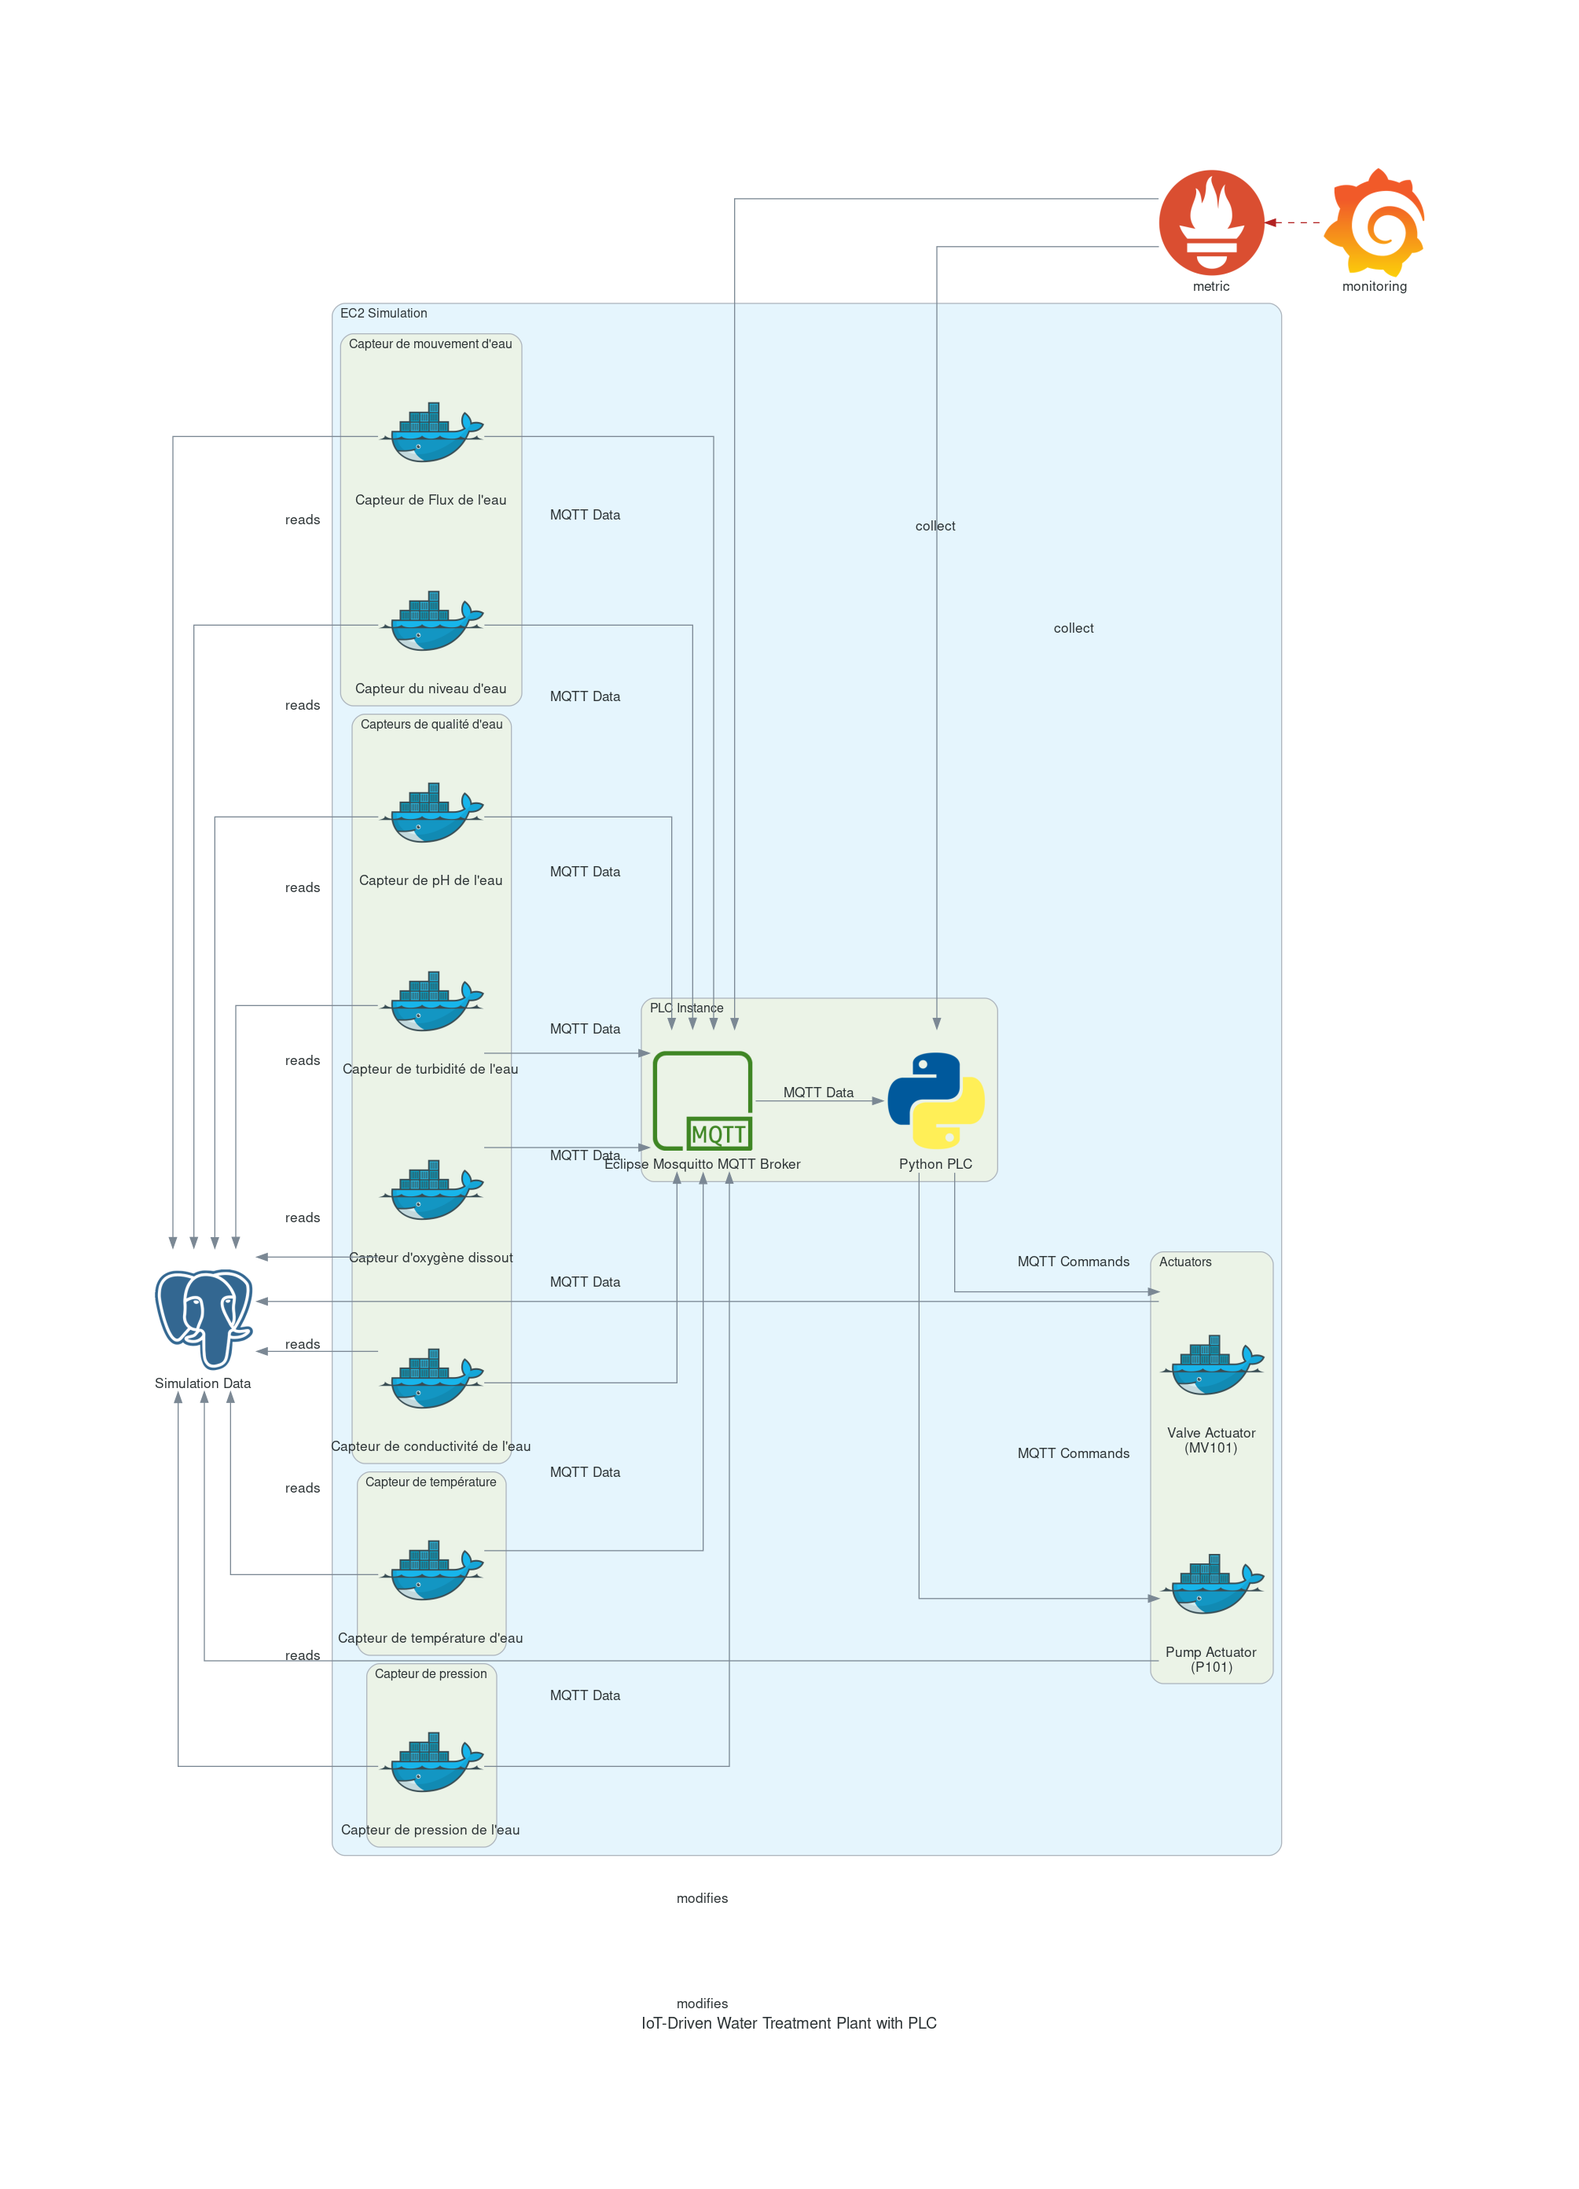
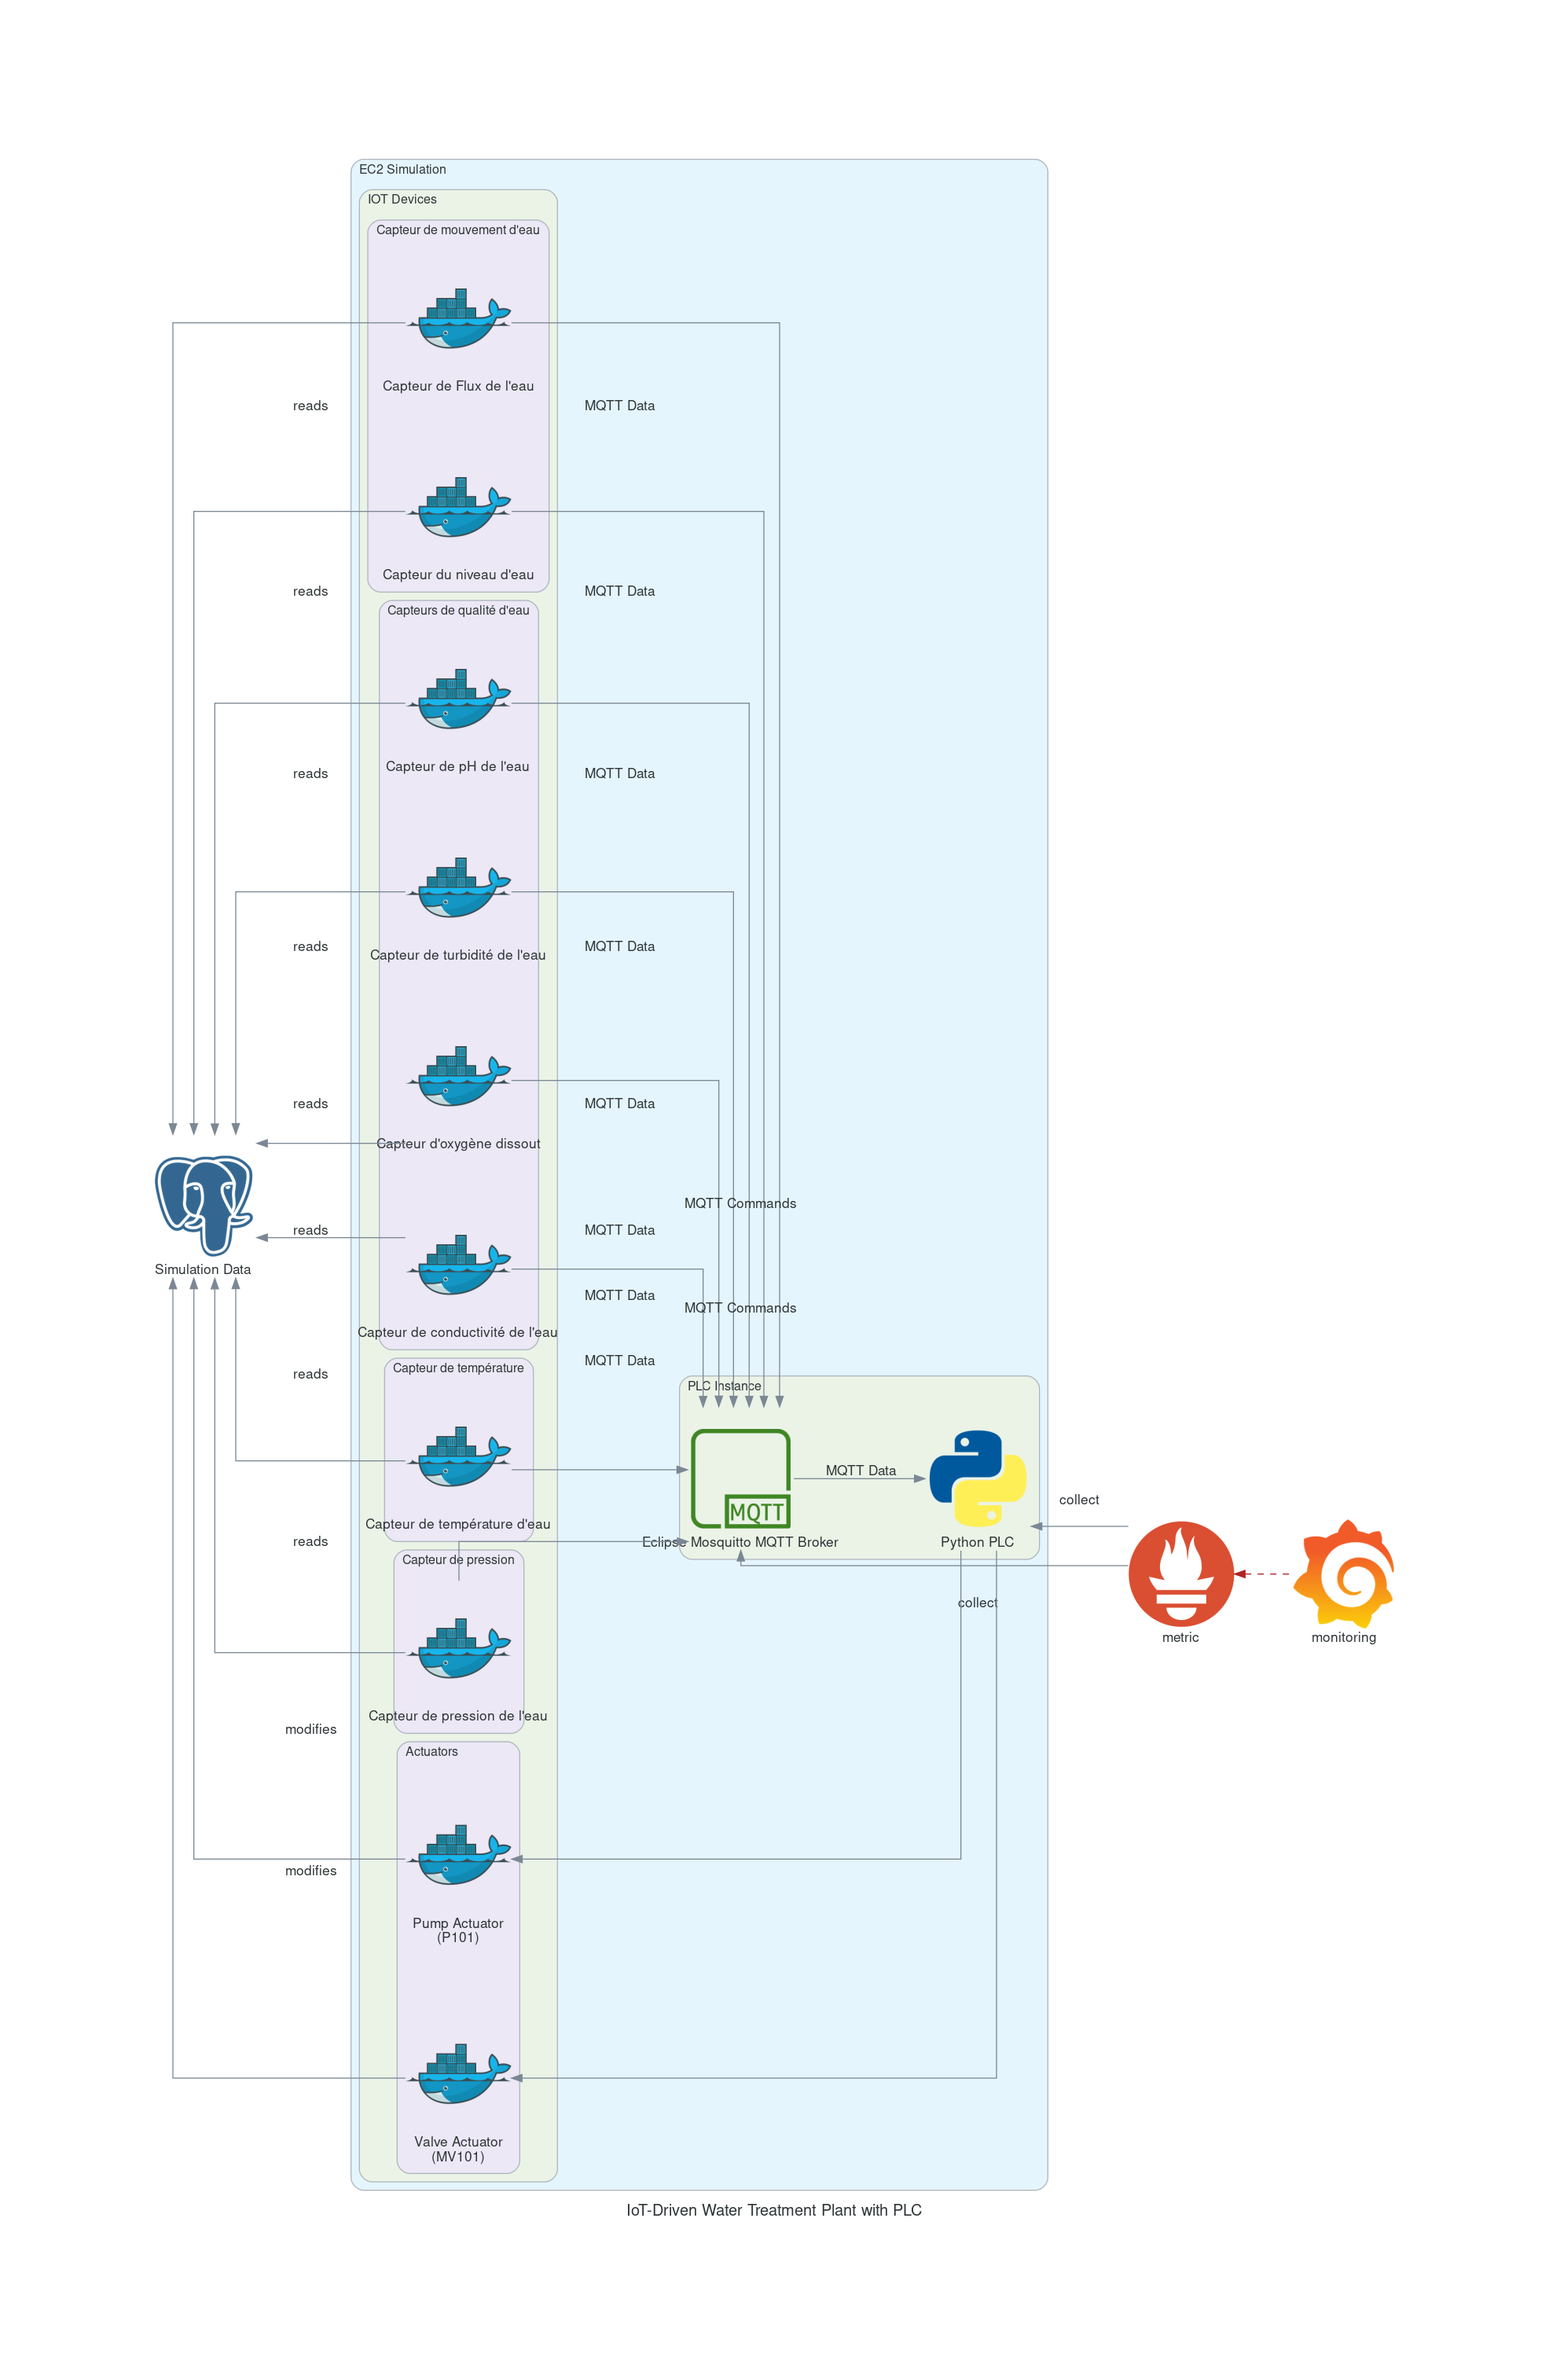
final

Changed region(s): [[0.0928, 0.0625, 0.8975, 0.9372], [0.8356, 0.0625, 0.8975, 0.125], [0.5571, 0.4686, 0.619, 0.5311]]

diff --git a/diagrams/diagram.py b/diagrams/diagram.py
@@ -15,27 +15,28 @@ with Diagram("IoT-Driven Water Treatment Plant with PLC", show=False, direction=
     simulation_state_db = Postgresql("Simulation Data")
 
     with Cluster("EC2 Simulation"):
-        # Sensor Dockers
-        with Cluster("Capteur de mouvement d'eau"):
-            flow_sensor = Docker("Capteur de Flux de l'eau") # (m^3/s)
-            level_sensor = Docker("Capteur du niveau d'eau") # (m)
+        with Cluster("IOT Devices"):
+            # Sensor Dockers
+            with Cluster("Capteur de mouvement d'eau"):
+                flow_sensor = Docker("Capteur de Flux de l'eau") # (m^3/s)
+                level_sensor = Docker("Capteur du niveau d'eau") # (m)
 
-        with Cluster("Capteurs de qualité d'eau"):
-            ph_sensor = Docker("Capteur de pH de l'eau") # (pH)
-            turbidity_sensor = Docker("Capteur de turbidité de l'eau") # (nephelometric turbidity units (NTU))
-            dissolved_oxygen_sensor = Docker("Capteur d'oxygène dissout") # (mg/L)
-            conductivity_sensor = Docker("Capteur de conductivité de l'eau") # siemens per meter (S/m)
+            with Cluster("Capteurs de qualité d'eau"):
+                ph_sensor = Docker("Capteur de pH de l'eau") # (pH)
+                turbidity_sensor = Docker("Capteur de turbidité de l'eau") # (nephelometric turbidity units (NTU))
+                dissolved_oxygen_sensor = Docker("Capteur d'oxygène dissout") # (mg/L)
+                conductivity_sensor = Docker("Capteur de conductivité de l'eau") # siemens per meter (S/m)
 
-        with Cluster("Capteur de température"):
-            temperature_sensor = Docker("Capteur de température d'eau") # (C)
+            with Cluster("Capteur de température"):
+                temperature_sensor = Docker("Capteur de température d'eau") # (C)
 
-        with Cluster("Capteur de pression"):
-            pressure_sensor = Docker("Capteur de pression de l'eau") # psi
+            with Cluster("Capteur de pression"):
+                pressure_sensor = Docker("Capteur de pression de l'eau") # psi
 
-        # Actuator Dockers
-        with Cluster("Actuators"):
-            pump_actuator = Docker("Pump Actuator\n(P101)")
-            valve_actuator = Docker("Valve Actuator\n(MV101)")
+            # Actuator Dockers
+            with Cluster("Actuators"):
+                pump_actuator = Docker("Pump Actuator\n(P101)")
+                valve_actuator = Docker("Valve Actuator\n(MV101)")
 
         # PLC EC2 instance with MQTT broker
         with Cluster("PLC Instance"):
@@ -54,7 +55,7 @@ with Diagram("IoT-Driven Water Treatment Plant with PLC", show=False, direction=
     # MQTT Broker to Actuators via Python Application
     for actuator in actuators:
         python_app >> Edge(label="MQTT Commands") >> actuator
-        actuator >> Edge(label="modifies") >> simulation_state_db
+        simulation_state_db << Edge(label="modifies") << actuator
 
     mqtt_broker >> Edge(label="MQTT Data") >> python_app
     mqtt_broker << Edge(label="collect") << metrics
